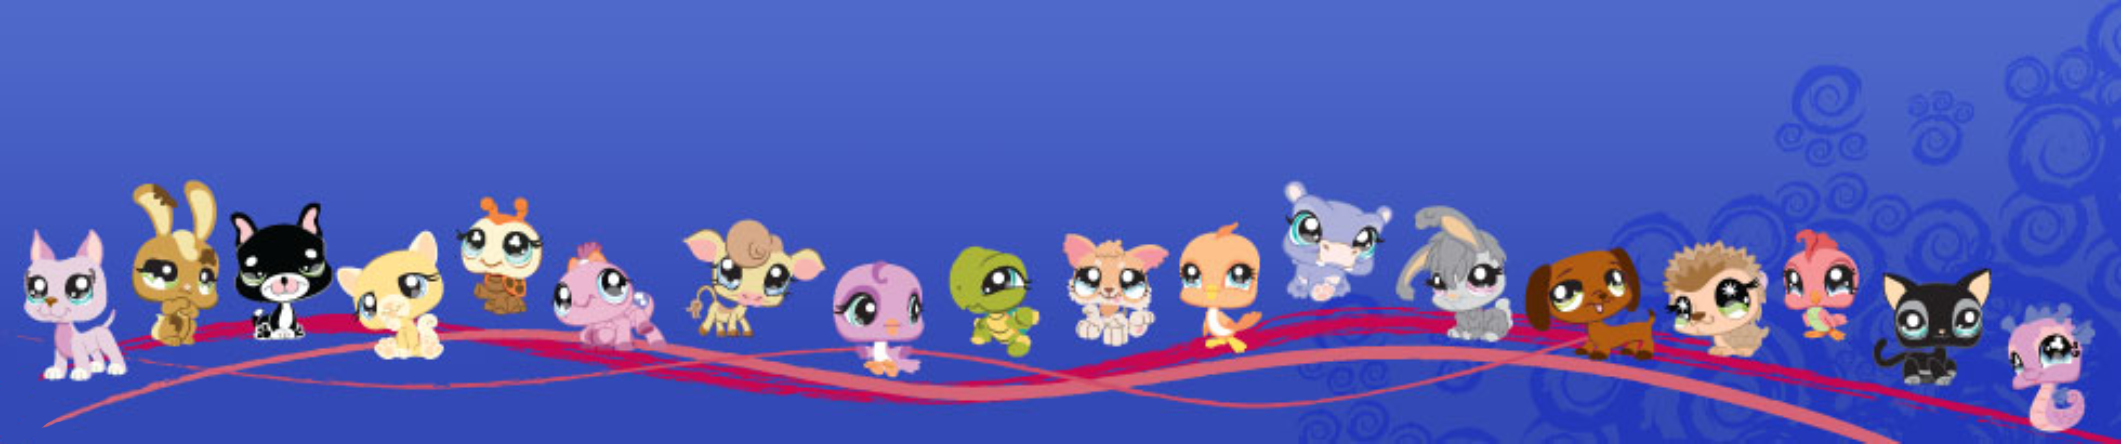
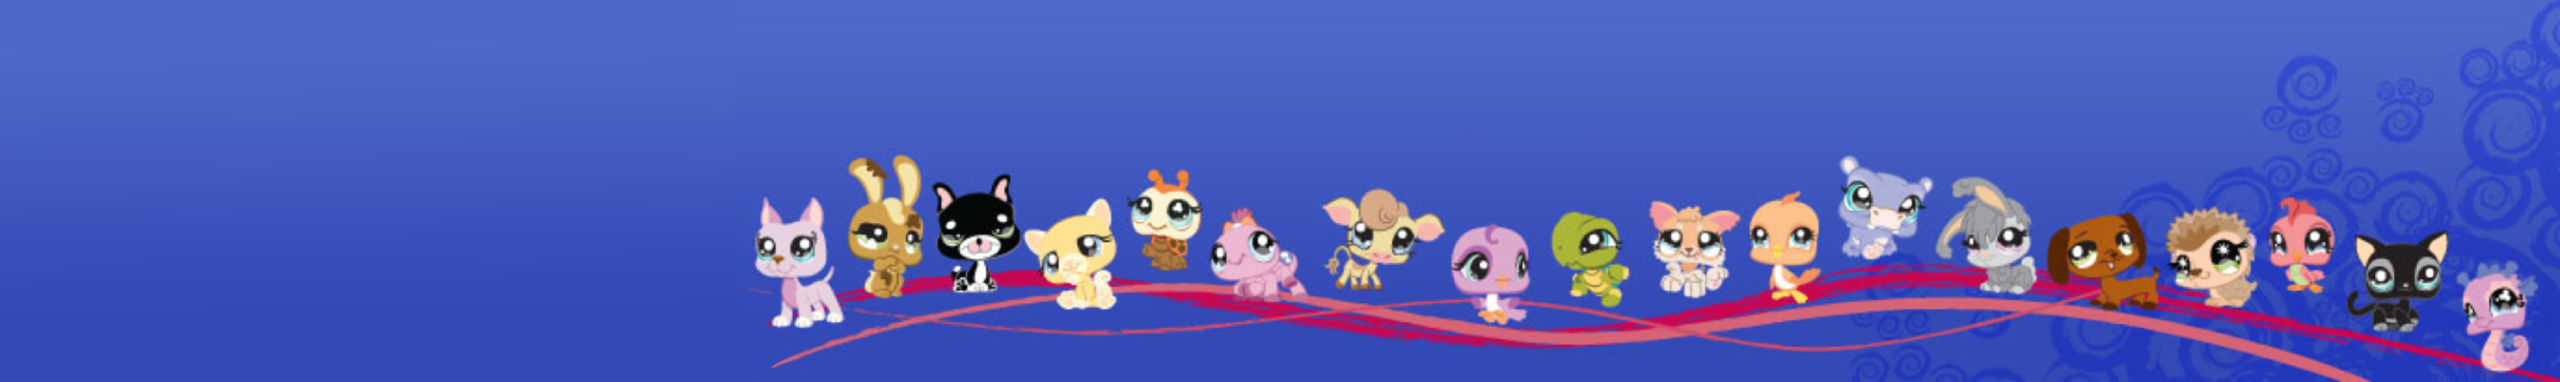
footer sized

diff --git a/websites/bium-be/littlestpetshop.html b/websites/bium-be/littlestpetshop.html
@@ -29,17 +29,20 @@
       <div class="wbheader">
        wb header
       </div>
+
       <div class="wbtext">
         wb text
       </div>
-
     </div>
 
   
     <a href="https://lpsmerch.com/search?q=Persian+Cat&strict=1&column=name" target=_blank>this page will function as a link to the pretty versions of this + other cool things (oh wow this link is pink)</a>
 
     <footer>
-      <img src="sources/images/lpsheader.png">
+      
+      <img src="sources/images/lpsfooter.png">
+      <div class="bottom-left">Bottom Left</div>
+    
     </footer>
 
   </body>

diff --git a/websites/bium-be/sources/stylesheets/lps.css b/websites/bium-be/sources/stylesheets/lps.css
@@ -8,9 +8,16 @@ header img{
     width: 100vw;
 }
 
-footer{
-    text-align: center;
+footer img{
+    width: 100vw;
 }
+
+.bottom-left {
+  position: absolute;
+  bottom: 0px; /*next job is getting this to work */
+  left: 0px;
+}
+
 
 
 .whiteboard{
